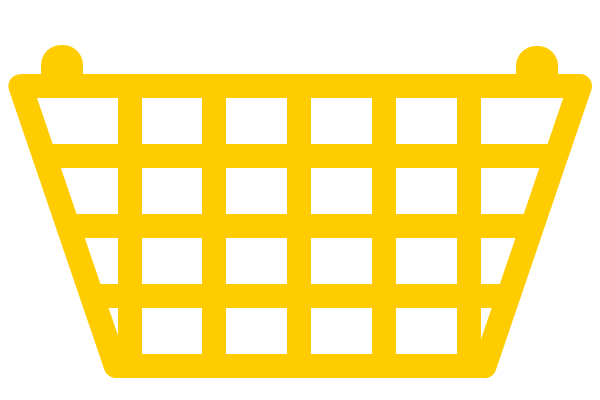
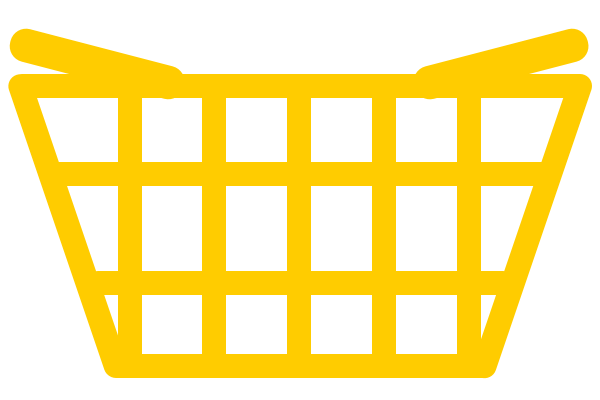
ProductPage V2 - Options Work 1

diff --git a/D2/Product View V2/index.css b/D2/Product View V2/index.css
@@ -848,8 +848,6 @@ body {
 	width: 1180px;
 		
 	background-color: rgba(0, 0, 0, 0.5);
-	
-	overflow-y: scroll;
 		
 }
 
@@ -1069,7 +1067,7 @@ body {
 	
 	background-color: none;
 	
-	//transform: rotateY(-50deg) rotateX(20deg);
+	transform: rotateY(-50deg) rotateX(20deg);
 	transform-origin: right center;
 	
 	transition: 1s;
@@ -1180,12 +1178,17 @@ body {
 	box-sizing: border-box;
 	
 	position: absolute;
-	
+	top: 10px;
 	width: 120px;
 	height: 50px;
 	
-	border: 2px solid #FFCC00;
-	border-radius: 7px;
+	color: #FFCC00;
+	font-size: 30px;
+	text-align: center;
+	line-height: 40px;
+	
+	border: 5px solid #FFCC00;
+	border-radius: 10px;
 	
 	
 }
@@ -1194,6 +1197,8 @@ body {
 	
 	position: absolute;
 	left: 10px;
+	
+	background-color: black;
 	
 }
 
@@ -1223,5 +1228,26 @@ body {
 	background-size: 90% 100%;
 	background-repeat: no-repeat;
 	background-position: center center;
+	
+}
+
+#basketImg:after {
+	
+	content: "Add To Basket";
+	
+	position: absolute;
+	top: 40px;
+	left: 115px;
+	height: 80px;
+	width: 160px;
+	
+	color: black;
+	font-size: 30px;
+	text-align: center;
+	
+	background-color: #FFCC40;
+	
+	border-radius: 7px;
+	
 	
 }

diff --git a/D2/Product View V2/index.html b/D2/Product View V2/index.html
@@ -183,8 +183,8 @@
 							
 							<div id='basketContainer'>
 								<div id='basketColorVal'></div>
-								<div id='basketSizeVal'></div>
-								<div id='basketQuantityVal'></div>
+								<div id='basketSizeVal'>16</div>
+								<div id='basketQuantityVal'>4</div>
 								<div id='basketImg'></div>
 							</div>
 						
